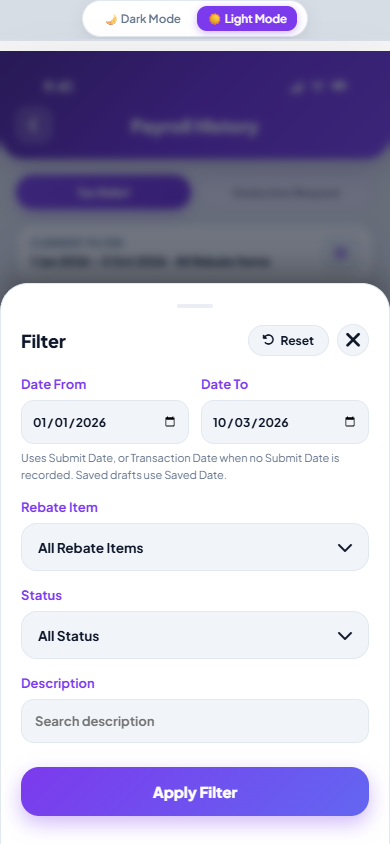
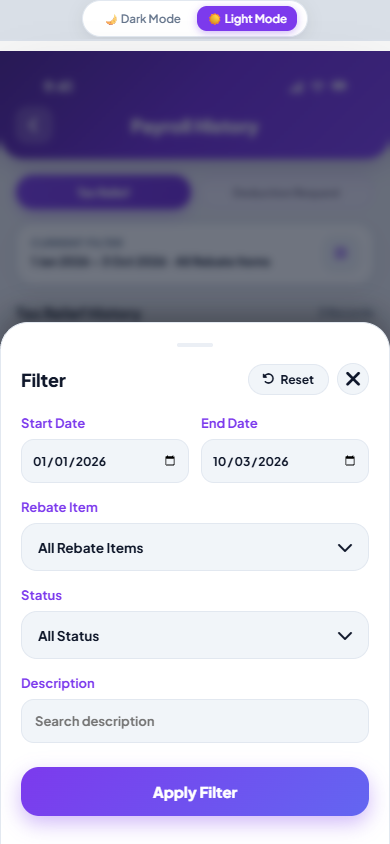
2/10:1059

Changed region(s): [[0.0, 0.3081, 1.0, 0.4621], [0.0615, 0.4929, 0.9231, 0.5853], [0.5231, 0.4313, 0.6462, 0.4621]]

diff --git a/modules/payroll/options/history.html b/modules/payroll/options/history.html
@@ -7,8 +7,8 @@
   <script src="../../../js/components.js"></script>
   <script src="../../../js/app.js" defer></script>
   <script src="../../../js/payroll/payroll-config.js" defer></script>
-  <script src="../../../js/payroll/payroll-history-data.js" defer></script>
-  <script src="../../../js/payroll/payroll-history.js" defer></script>
+  <script src="../../../js/payroll/payroll-history-data.js?v=20261002-reference-data" defer></script>
+  <script src="../../../js/payroll/payroll-history.js?v=20261002-no-filter-help" defer></script>
   <link rel="preconnect" href="https://fonts.googleapis.com">
   <link rel="preconnect" href="https://fonts.gstatic.com" crossorigin>
   <link href="https://fonts.googleapis.com/css2?family=Plus+Jakarta+Sans:wght@400;500;600;700;800&display=swap" rel="stylesheet">
@@ -17,7 +17,7 @@
   <link rel="stylesheet" href="../../../css/app.css">
   <link rel="stylesheet" href="../../../css/claim-forms.css">
   <link rel="stylesheet" href="../../../css/history-cards.css">
-  <link rel="stylesheet" href="../../../css/payroll-history.css">
+  <link rel="stylesheet" href="../../../css/payroll-history.css?v=20261002-no-filter-help">
 </head>
 <body>
   <preview-top-bar active-page="payroll"></preview-top-bar>
@@ -63,10 +63,9 @@
         </div>
         <div class="claim-filter-fields">
           <div class="history-date-fields">
-            <div><label id="historyDateFromLabel" for="historyDateFrom" class="claim-filter-label">Date From</label><input id="historyDateFrom" class="claim-control" type="date" required></div>
-            <div><label id="historyDateToLabel" for="historyDateTo" class="claim-filter-label">Date To</label><input id="historyDateTo" class="claim-control" type="date" required></div>
+            <div><label id="historyDateFromLabel" for="historyDateFrom" class="claim-filter-label">Start Date</label><input id="historyDateFrom" class="claim-control" type="date" required></div>
+            <div><label id="historyDateToLabel" for="historyDateTo" class="claim-filter-label">End Date</label><input id="historyDateTo" class="claim-control" type="date" required></div>
           </div>
-          <p id="historyDateHelp" class="history-filter-help">Uses Submit Date, or Transaction Date when no Submit Date is recorded.</p>
           <div><label id="historyItemLabel" for="historyRebateItem" class="claim-filter-label">Rebate Item</label><div class="claim-filter-select-wrap"><select id="historyRebateItem" class="claim-filter-select"></select><i class="fa-solid fa-chevron-down claim-filter-chevron" aria-hidden="true"></i></div></div>
           <div id="historyStatusField"><label for="historyStatus" class="claim-filter-label">Status</label><div class="claim-filter-select-wrap"><select id="historyStatus" class="claim-filter-select"><option value="all">All Status</option><option value="submitted">Submitted</option><option value="draft">Draft</option><option value="approved">Approved</option><option value="rejected">Rejected</option><option value="cancelled">Cancelled</option></select><i class="fa-solid fa-chevron-down claim-filter-chevron" aria-hidden="true"></i></div></div>
           <div id="historyDescriptionField"><label id="historyDescriptionLabel" for="historyDescription" class="claim-filter-label">Description</label><input id="historyDescription" class="claim-control" type="search" placeholder="Search description" maxlength="2000"></div>

diff --git a/css/ea-form.css b/css/ea-form.css
@@ -98,83 +98,33 @@
 
 .ea-open-print-action {
   width: 100%;
-  min-height: 72px;
-  display: grid;
-  grid-template-columns: 42px minmax(0, 1fr) 34px;
-  align-items: center;
-  gap: 12px;
-  margin: 0 0 8px;
-  padding: 12px 14px;
-  border: 1px solid rgba(196, 181, 253, 0.34);
-  border-radius: 19px;
-  background:
-    radial-gradient(circle at 90% -20%, rgba(255, 255, 255, 0.28), transparent 40%),
-    linear-gradient(118deg, #4c1d95 0%, #6425c7 48%, #7c3aed 100%);
-  color: #fff;
-  box-shadow: 0 14px 30px rgba(76, 29, 149, 0.28), inset 0 1px 0 rgba(255, 255, 255, 0.16);
-  text-align: left;
-  cursor: pointer;
-  transition: transform 240ms cubic-bezier(0.32, 0.72, 0, 1), filter 240ms cubic-bezier(0.32, 0.72, 0, 1);
-}
-
-.ea-open-print-action:hover { filter: brightness(1.06) saturate(1.03); }
-.ea-open-print-action:active { transform: scale(0.986); }
-.ea-open-print-action:focus-visible { outline: 3px solid var(--purple-border); outline-offset: 3px; }
-
-.ea-open-print-icon,
-.ea-open-print-arrow {
+  min-height: 48px;
   display: inline-flex;
   align-items: center;
   justify-content: center;
-  border: 1px solid rgba(255, 255, 255, 0.18);
-  background: rgba(255, 255, 255, 0.14);
-  box-shadow: inset 0 1px 0 rgba(255, 255, 255, 0.14);
-}
-
-.ea-open-print-icon {
-  width: 42px;
-  height: 42px;
-  border-radius: 13px;
-  font-size: 14px;
-}
-
-.ea-open-print-copy strong,
-.ea-open-print-copy small {
-  display: block;
-}
-
-.ea-open-print-copy strong {
+  gap: 9px;
+  margin: 0 0 8px;
+  padding: 12px 20px;
+  border: 1px solid rgba(255, 255, 255, 0.12);
+  border-radius: 14px;
+  background: #7c3aed;
   color: #fff;
-  font-size: 12.5px;
-  font-weight: 900;
-  letter-spacing: -0.15px;
+  box-shadow: 0 4px 12px rgba(124, 58, 237, 0.18);
+  font: inherit;
+  font-size: 13px;
+  font-weight: 800;
+  line-height: 1.2;
+  white-space: nowrap;
+  cursor: pointer;
+  transition: background-color 180ms ease, box-shadow 180ms ease, transform 180ms ease;
 }
 
-.ea-open-print-copy small {
-  margin-top: 3px;
-  color: rgba(255, 255, 255, 0.68);
-  font-size: 9px;
-  font-weight: 650;
-}
-
-.ea-open-print-arrow {
-  width: 34px;
-  height: 34px;
-  border-radius: 50%;
-  font-size: 10px;
-  transition: transform 240ms cubic-bezier(0.32, 0.72, 0, 1);
-}
-
-.ea-open-print-action:hover .ea-open-print-arrow { transform: translate(2px, -2px); }
-
-@media (max-width: 360px) {
-  .ea-open-print-action { grid-template-columns: 40px minmax(0, 1fr) 32px; gap: 10px; padding-inline: 12px; }
-  .ea-open-print-icon { width: 40px; height: 40px; }
-  .ea-open-print-copy small { font-size: 8.5px; }
-}
+.ea-open-print-action:hover { background: #6d28d9; box-shadow: 0 6px 16px rgba(124, 58, 237, 0.24); }
+.ea-open-print-action:active { background: #5b21b6; transform: scale(0.985); box-shadow: 0 2px 6px rgba(124, 58, 237, 0.18); }
+.ea-open-print-action:focus-visible { outline: 2px solid var(--purple-primary); outline-offset: 4px; }
+.ea-open-print-action > i { font-size: 14px; }
 
 @media (prefers-reduced-motion: reduce) {
   .ea-form-preview-frame img,
-  .ea-open-print-action,
-  .ea-open-print-arrow { transition: none; }
+  .ea-open-print-action { transition: none; }
 }

diff --git a/modules/payroll/options/ea-form.html b/modules/payroll/options/ea-form.html
@@ -24,8 +24,7 @@
       <div class="status-bar"><span>9:41</span><span><i class="fa-solid fa-signal"></i>&nbsp; <i class="fa-solid fa-wifi"></i>&nbsp; <i class="fa-solid fa-battery-three-quarters"></i></span></div>
       <div class="payroll-header-row">
         <button class="payroll-header-button" type="button" onclick="history.back()" aria-label="Back"><i class="fa-solid fa-chevron-left"></i></button>
-        <div class="payroll-header-copy"><h1>EA Form</h1><p id="headerEAYearText">Year of Assessment 2024</p></div>
-        <span class="payroll-header-badge">C.P.8A</span>
+        <div class="payroll-header-copy"><h1>EA Form</h1></div>
       </div>
     </header>
 
@@ -35,13 +34,11 @@
         <i class="fa-solid fa-sliders"></i>
       </button>
 
-      <section class="ea-form-preview-card" aria-labelledby="eaFormPreviewTitle">
+      <section class="ea-form-preview-card" aria-label="Official document">
         <div class="ea-form-preview-heading">
           <div>
             <span>Official document</span>
-            <h2 id="eaFormPreviewTitle">EA Form <b id="eaPreviewYear">2024</b></h2>
           </div>
-          <span class="ea-form-code">C.P.8A</span>
         </div>
         <button class="ea-form-preview-frame" type="button" onclick="openAndPrintEA()" aria-label="Open EA form preview">
           <img id="eaFormPreview" src="../../../assets/img/ea-form-preview.jpeg" alt="EA form preview">
@@ -50,9 +47,8 @@
       </section>
 
       <button class="ea-open-print-action" type="button" onclick="openAndPrintEA()">
-        <span class="ea-open-print-icon" aria-hidden="true"><i class="fa-solid fa-print"></i></span>
-        <span class="ea-open-print-copy"><strong>Open + Print</strong><small>View the official form in print layout</small></span>
-        <span class="ea-open-print-arrow" aria-hidden="true"><i class="fa-solid fa-arrow-up-right-from-square"></i></span>
+        <i class="fa-solid fa-print" aria-hidden="true"></i>
+        <span>Open + Print</span>
       </button>
     </main>
 
@@ -87,9 +83,7 @@
     function renderEA() {
       const data = eaData();
       selectedTaxRelief = data.taxRef || selectedTaxRelief;
-      document.getElementById('headerEAYearText').textContent = `Year of Assessment ${selectedEAYear}`;
       document.getElementById('eaFilterSummary').textContent = `${selectedEAYear} · ${selectedTaxRelief}`;
-      document.getElementById('eaPreviewYear').textContent = selectedEAYear;
     }
 
     function openEAFilter() {

diff --git a/js/payroll/payroll-history.js b/js/payroll/payroll-history.js
@@ -155,7 +155,7 @@
         row('Process', record.process ? 'Yes' : 'No'),
         row('Period', record.period),
         row('Cycle', record.cycle),
-        row('Approval Date', date(record.approvalDate)),
+        row('Approval Date', record.approvalDateLabel || date(record.approvalDate)),
         row('Approver Remarks', record.approverRemarks)
       );
     } else {
@@ -180,8 +180,8 @@
     const periodFilter = kind === 'deduction';
     $('historyDateFrom').type = periodFilter ? 'month' : 'date';
     $('historyDateTo').type = periodFilter ? 'month' : 'date';
-    $('historyDateFromLabel').textContent = periodFilter ? 'Start Period' : 'Date From';
-    $('historyDateToLabel').textContent = periodFilter ? 'End Period' : 'Date To';
+    $('historyDateFromLabel').textContent = periodFilter ? 'Start Period' : 'Start Date';
+    $('historyDateToLabel').textContent = periodFilter ? 'End Period' : 'End Date';
     $('historyDateFrom').value = values.from;
     $('historyDateTo').value = values.to;
     $('historyStatus').value = values.status;
@@ -192,7 +192,6 @@
     $('historyItemLabel').textContent = category.label;
     $('historyDescriptionLabel').textContent = category.description;
     $('historyDescription').placeholder = `Search ${category.description.toLowerCase()}`;
-    $('historyDateHelp').textContent = periodFilter ? 'Uses the deduction period in YYYYMM format.' : 'Uses Submit Date, or Transaction Date when no Submit Date is recorded. Saved drafts use Saved Date.';
     const select = $('historyRebateItem');
     select.replaceChildren(new Option(category.all, 'all'));
     const seen = new Set();
@@ -260,7 +259,7 @@
     event.preventDefault();
     const from = $('historyDateFrom').value, to = $('historyDateTo').value;
     if (from > to) {
-      $('historyFilterError').textContent = kind === 'deduction' ? 'End Period must be on or after Start Period.' : 'Date To must be on or after Date From.';
+      $('historyFilterError').textContent = kind === 'deduction' ? 'End Period must be on or after Start Period.' : 'End Date must be on or after Start Date.';
       $('historyFilterError').hidden = false;
       $('historyDateTo').focus();
       return;

diff --git a/js/payroll/payroll-history-data.js b/js/payroll/payroll-history-data.js
@@ -7,13 +7,20 @@ window.PAYROLL_HISTORY_DATA = {
       transactionDate: '2025-08-14', submitDate: '2026-01-07',
       description: 'Medical Relief', receiptNo: '', amount: 100, status: 'submitted',
       attachments: [{ name: 'Invoice.docx' }],
-      process: false, period: '', cycle: '', approvalDate: '', approverRemarks: 'Reason required'
+      process: false, period: '', cycle: '', approvalDate: '', approvalDateLabel: '1 Jan 1', approverRemarks: 'Reason required'
+    },
+    {
+      id: 'RBT000000000049', employeeName: 'Farhan binti rahmat', empNo: 'EBB12',
+      rebateCode: 'TXR02', rebateItem: 'BASIC SUPPORTING EQUIPMENT',
+      transactionDate: '2026-03-19', submitDate: '', description: '', receiptNo: '',
+      amount: 12, status: 'submitted', attachments: [],
+      process: false, period: '', cycle: '', approvalDate: '', approverRemarks: ''
     },
     {
       id: 'RBT000000000050', employeeName: 'Farhan binti rahmat', empNo: 'EBB12',
       rebateCode: 'TXR05', rebateItem: 'COMPLETE MEDICAL EXAMINATION',
       transactionDate: '2026-03-19', submitDate: '', description: '', receiptNo: '',
-      amount: 14, status: 'draft', attachments: [],
+      amount: 14, status: 'submitted', attachments: [],
       process: false, period: '', cycle: '', approvalDate: '', approverRemarks: ''
     }
   ],

diff --git a/css/payroll-history.css b/css/payroll-history.css
@@ -51,7 +51,6 @@ body { min-height: 100dvh; padding: 20px 0; }
 .history-date-fields { display: grid; grid-template-columns: repeat(2, minmax(0, 1fr)); gap: 12px; }
 .history-date-fields .claim-control { width: 100%; min-width: 0; font-size: 12px; padding: 12px 10px; color-scheme: dark; }
 [data-theme="light"] .history-date-fields .claim-control { color-scheme: light; }
-.history-filter-help { margin-top: -10px; color: var(--text-muted); font-size: 11px; line-height: 1.5; }
 .history-filter-error { color: #f87171; font-size: 12px; line-height: 1.5; }
 [data-theme="light"] .history-filter-error { color: #b91c1c; }
 .history-detail-overlay { position: absolute; inset: 0; display: none; align-items: center; justify-content: center; padding: 16px 16px 94px; z-index: 1200; background: rgba(15,23,42,.65); backdrop-filter: blur(4px); }
